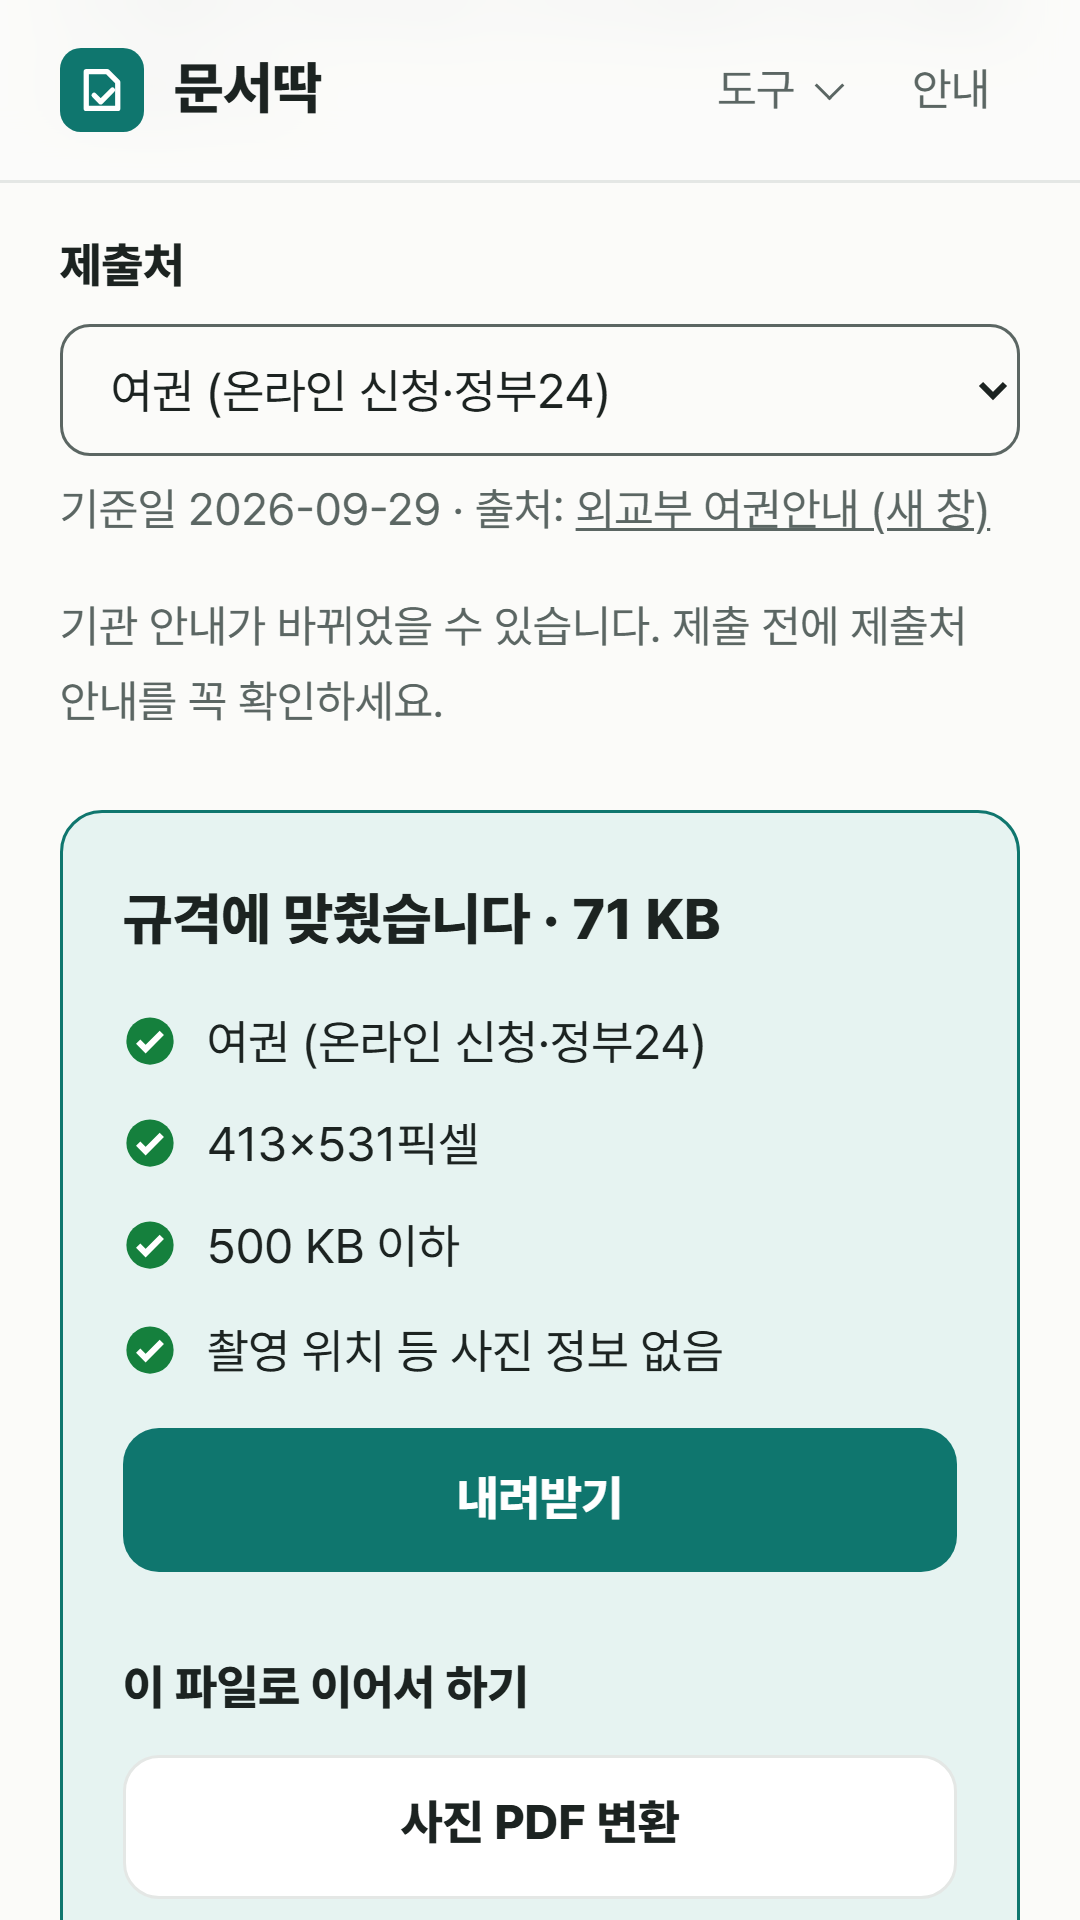
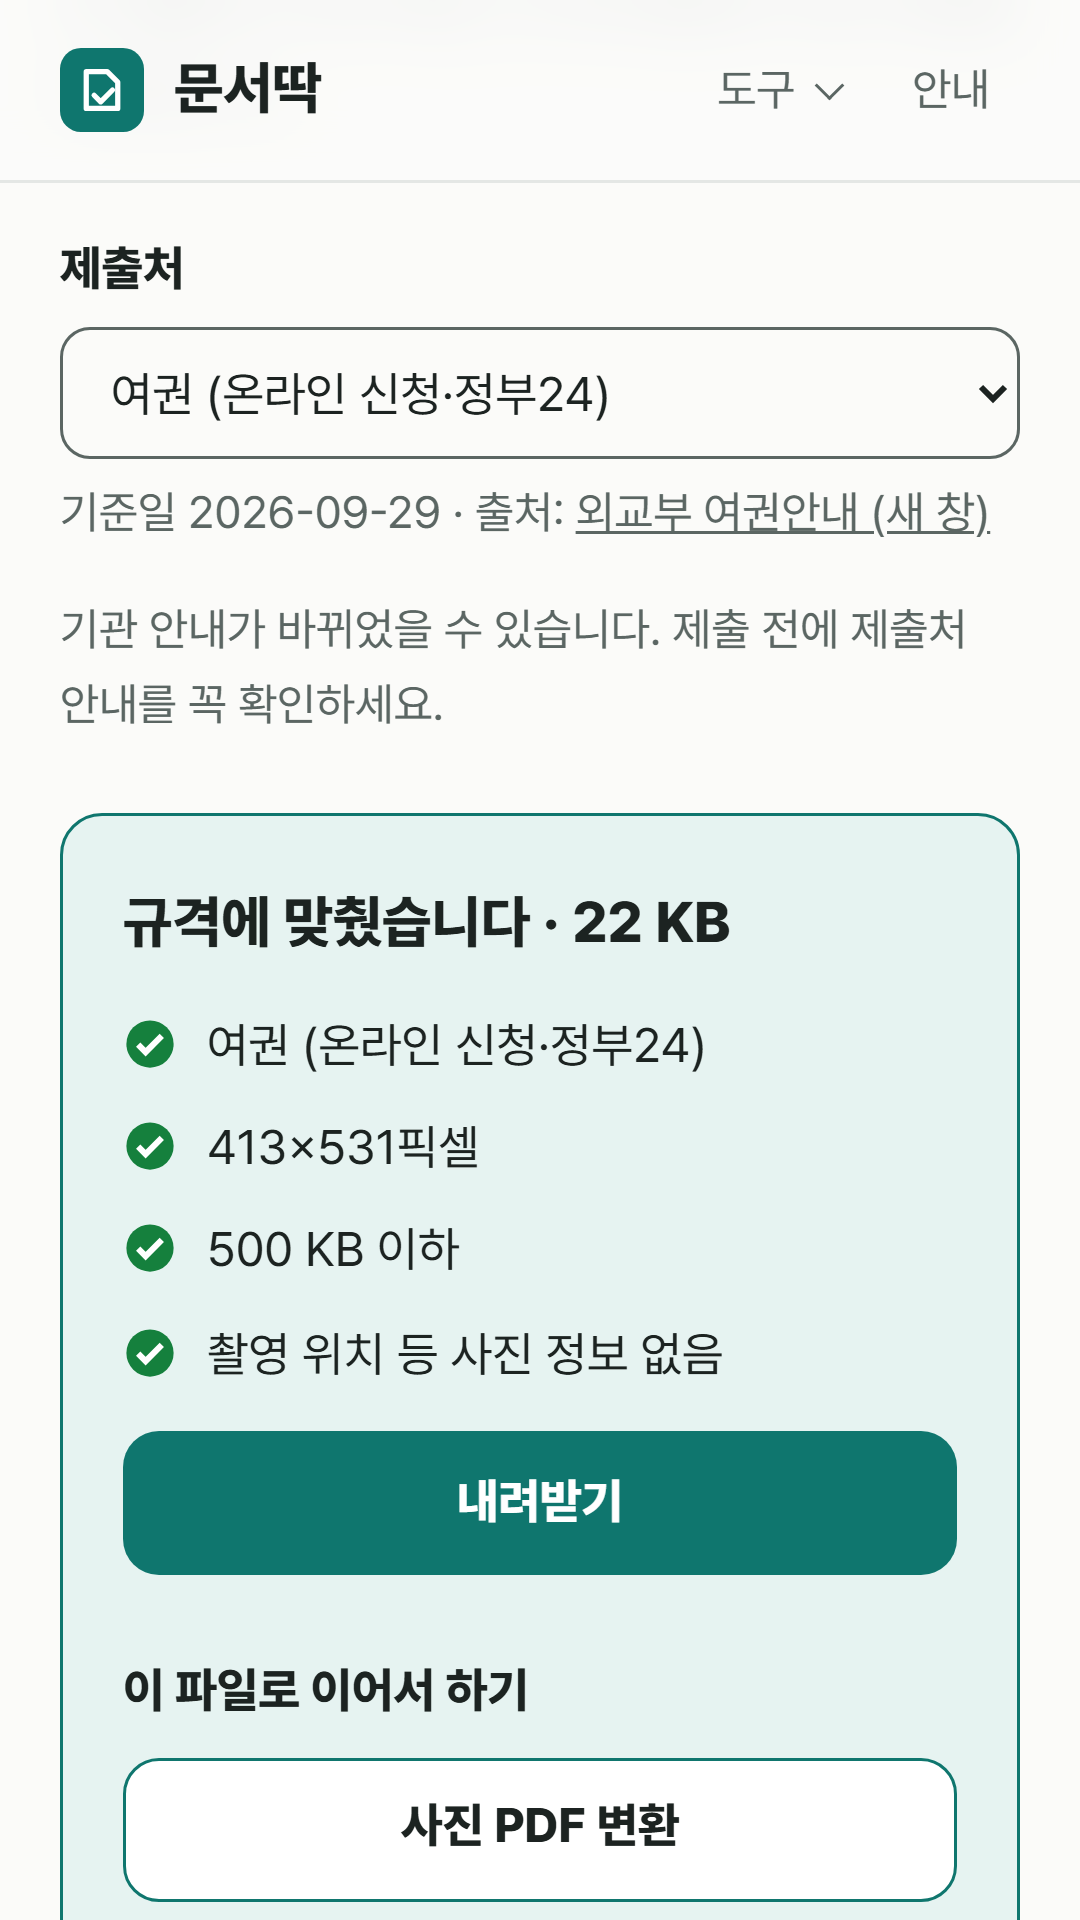
[TWA 1 r2] 스토어 스크린샷에 실존 인물 사진 제거(합성 사진, 02 교체), 고정 헤더 아래로 스크롤, 증명사진 바로가기 짧은 이름

diff --git a/tests/unit/manifest.test.ts b/tests/unit/manifest.test.ts
@@ -5,7 +5,7 @@ import { readFileSync } from 'node:fs';
 import { describe, expect, it } from 'vitest';
 import { defaultDescription } from '../../src/data/site';
 import { getTool } from '../../src/data/tools';
-import { SHORTCUT_SLUGS, webManifest } from '../../src/data/web-manifest';
+import { SHORTCUT_SLUGS, SHORT_LABEL_MAX, webManifest } from '../../src/data/web-manifest';
 
 const m = webManifest();
 const twa = JSON.parse(readFileSync('twa/twa-manifest.json', 'utf8')) as {
@@ -43,6 +43,7 @@ describe('web app manifest', () => {
     expect(m.shortcuts.map((s) => s.url)).toEqual(['/id-photo/', '/pdf-merge/', '/hwp-to-pdf/', '/photo-compress/']);
     for (const [i, s] of m.shortcuts.entries()) {
       expect(s.name).toBe(getTool(SHORTCUT_SLUGS[i]!).name);
+      expect([...s.short_name].length).toBeLessThanOrEqual(SHORT_LABEL_MAX);
       expect(getTool(SHORTCUT_SLUGS[i]!).status).toBe('live');
       expect(s.icons).toEqual([{ src: '/brand/icon-192.png', sizes: '192x192', type: 'image/png' }]);
     }
@@ -54,7 +55,7 @@ describe('twa/twa-manifest.json', () => {
 
   it('mirrors the web manifest shortcuts (same names, absolute URLs on the app host)', () => {
     expect(twa.shortcuts).toEqual(
-      m.shortcuts.map((s) => ({ name: s.name, shortName: s.name, url: `${origin}${s.url}`, chosenIconUrl: `${origin}${s.icons[0]!.src}` })),
+      m.shortcuts.map((s) => ({ name: s.name, shortName: s.short_name, url: `${origin}${s.url}`, chosenIconUrl: `${origin}${s.icons[0]!.src}` })),
     );
   });
 
@@ -85,5 +86,13 @@ describe('twa/twa-manifest.json', () => {
     expect(JSON.stringify(twa)).not.toMatch(/password/i);
     expect(Number.isInteger(twa.appVersionCode) && twa.appVersionCode >= 1).toBe(true);
     expect(twa.appVersion).toMatch(/^\d+\.\d+\.\d+$/);
+  });
+});
+
+describe('twa/screenshots.mjs (Play listing images)', () => {
+  it('feeds the tools a synthetic picture only: no photo fixture (real people, paintings) can reach a store screenshot', () => {
+    const src = readFileSync('twa/screenshots.mjs', 'utf8');
+    expect(src).not.toMatch(/portrait_pd|scene_cc0|cc0-person|exif6_gps|p3_patches|bgremove|bgcloud|['"]photo['"]/);
+    expect(src).toContain('syntheticPhoto');
   });
 });

diff --git a/src/data/web-manifest.ts b/src/data/web-manifest.ts
@@ -9,6 +9,10 @@ export const SHORTCUT_SLUGS = ['id-photo', 'pdf-merge', 'hwp-to-pdf', 'photo-com
 
 export const SHORTCUT_ICON = { src: '/brand/icon-192.png', sizes: '192x192', type: 'image/png' } as const;
 
+/** Launcher labels are cut at about 10–12 characters; a tool name longer than SHORT_LABEL_MAX gets a short label here. */
+export const SHORT_LABEL_MAX = 12;
+export const SHORTCUT_SHORT_NAMES: Partial<Record<(typeof SHORTCUT_SLUGS)[number], string>> = { 'id-photo': '증명사진 규격' };
+
 /** Web app manifest (brief Polish P.10; TWA step 1). The icons are generated by scripts/gen-brand.mjs. */
 export function webManifest() {
   return {
@@ -28,6 +32,9 @@ export function webManifest() {
       { src: '/brand/icon-512.png', sizes: '512x512', type: 'image/png' },
       { src: '/brand/icon-maskable-512.png', sizes: '512x512', type: 'image/png', purpose: 'maskable' },
     ],
-    shortcuts: SHORTCUT_SLUGS.map((slug) => ({ name: getTool(slug).name, url: `/${slug}/`, icons: [SHORTCUT_ICON] })),
+    shortcuts: SHORTCUT_SLUGS.map((slug) => {
+      const name = getTool(slug).name;
+      return { name, short_name: SHORTCUT_SHORT_NAMES[slug] ?? name, url: `/${slug}/`, icons: [SHORTCUT_ICON] };
+    }),
   };
 }

diff --git a/handoff/REVIEW-REQUEST-TWA.md b/handoff/REVIEW-REQUEST-TWA.md
@@ -1,5 +1,22 @@
 # Review Request — TWA step 1 (repository part)
-Date: 2026-10-12
+Date: 2026-10-12 (round 2: 2026-10-13)
+
+## Round 2 (REVIEW-FEEDBACK-TWA.md)
+- Must Fix, screenshot 02: `02-id-photo-adjust.jpg` deleted. New `02-id-photo-presets.png` = /id-photo/ before a photo is picked
+  (제출처 select, 기준일·출처, "사진은 이 기기 밖으로 전송되지 않습니다", 사진 선택). No photo, no face.
+- Can't recur: twa/screenshots.mjs:19-56 `syntheticPhoto(page, scale)` draws a face-free picture (gradient, circle, card, seeded
+  noise) in the page and hands it over as a file buffer; 03 (id-photo result) and 07 (photo-compress; scale 2.5 → 3.6 MB → 481 KB,
+  so the shot shows a real reduction instead of "이미 충분히 작아요") use it. No photo fixture is referenced any more, and
+  tests/unit/manifest.test.ts "feeds the tools a synthetic picture only" fails if portrait_pd / scene_cc0 (a painting with a
+  person) / cc0-person / any `'photo'` fixture path appears in the script.
+- Sticky header: twa/screenshots.mjs:143-151 scrolls each focus element to just below `header.top` (sticky) + 16 px instead of
+  `scrollIntoView`, so nothing shows through the header (checked 02, 03, 07 visually).
+- Shortcut label: src/data/web-manifest.ts adds `short_name` per shortcut (`SHORTCUT_SHORT_NAMES`, only 'id-photo' →
+  「증명사진 규격」, 7 chars; others keep the tools.ts name, all ≤ `SHORT_LABEL_MAX` 12). twa-manifest.json shortName follows;
+  `bubblewrap update --skipVersionUpgrade` re-run (app/build.gradle shortcuts, manifest-checksum.txt). Tests: every short_name
+  ≤ 12, twa shortName = web short_name, checksum matches.
+- Re-run: vitest manifest + assetlinks + postbuild 85/85 passed; astro check 0 errors; default build check-dist OK (2435 files);
+  screenshots regenerated (8 × 1080x1920 PNG, 80–143 KB).
 Branch: twa-step1 (base origin/main 29826f0)
 Ready for Review: YES
 Status: DONE_WITH_CONCERNS — everything up to the signed build is in place and tested; the Gradle build itself was not run
@@ -18,7 +35,7 @@ Status: DONE_WITH_CONCERNS — everything up to the signed build is in place and
 - twa/.gitattributes (new) — keeps twa-manifest.json / manifest-checksum.txt byte-exact (repo has core.autocrlf=true; a CRLF checkout would change the SHA-1 and make `bubblewrap build` prompt and bump the version).
 - twa/README.md (new, Korean) — owner commands (keytool, build with env-var passwords), assetlinks phases, version rule, backup, device checklist.
 - twa/screenshots.mjs (new) — repo Playwright + tests/e2e/serve.mjs on dist/: 8 shots 360x640@3 = 1080x1920 (PNG, JPEG q85 fallback over 500 KB), feature graphic, icon copy.
-- twa/listing/feature.html, feature-graphic.png (1024x500), icon-512.png (512x512 RGBA), screenshots/01..08 (all 1080x1920, 80–245 KB).
+- twa/listing/feature.html, feature-graphic.png (1024x500), icon-512.png (512x512 RGBA), screenshots/01..08 (all 1080x1920, all PNG, 80–143 KB; no real person anywhere).
 - twa/listing/listing.ko.md (new) — title 25 / short 51 / full 1,758 chars; every live tool by name (15), on-device processing with the 배경 지우기 exception stated honestly, offline after first open, shortcuts, no sign-up/ads, 정부·외교부와 무관.
 - twa/listing/play-console-answers.md (new) — Data safety, ads, IARC, audience, app access, gov/fin/health, privacy URL, appeal text; header records the live flags it was derived from.
 - tests/unit/manifest.test.ts (new) — id/description/categories/shortcuts (names from tools.ts, all live), twa-manifest mirrors the shortcuts, prod URLs, no extras, checksum = SHA-1 of twa-manifest, no password field.
@@ -46,7 +63,7 @@ Status: DONE_WITH_CONCERNS — everything up to the signed build is in place and
 
 ## Concerns / Open Questions
 1. **Gradle build not run.** I tried `gradlew assembleRelease` (unsigned, no keystore) to prove the project compiles; the permission system denied it. So "the generated project compiles" is unverified until the owner's first `npm run build`. Risk is low (stock Bubblewrap 1.27.0 template, no edits).
-2. **Screenshot 02 shows a real, identifiable person** (tests/fixtures/photo/portrait_pd.jpg, a public-domain US congressional portrait). Fine for tests, questionable for a store listing (impersonation/endorsement look). Recommend dropping 02 (7 shots remain, within 6–8) or replacing the fixture with a consented/AI-free model photo before upload. Arch decides.
+2. ~~Screenshot 02 shows a real, identifiable person~~ — fixed in round 2 (below).
 3. **Data safety "앱 상호작용"**: brief says 앱 상호작용 = no, 페이지 조회 = yes, but Play has no separate page-view item; page views/taps are 앱 활동 > 앱 상호작용. Answers file says **예**. Please confirm.
 4. **Delete-request question**: answers file recommends 아니요 (no account, anonymous/aggregate data). Owner/Arch confirm.
 5. **Short description** keeps the draft's "파일은 폰 안에서 처리해요" (true for the three tools it names); the full description states the 배경 지우기 exception. Tighten if Arch wants zero ambiguity.
